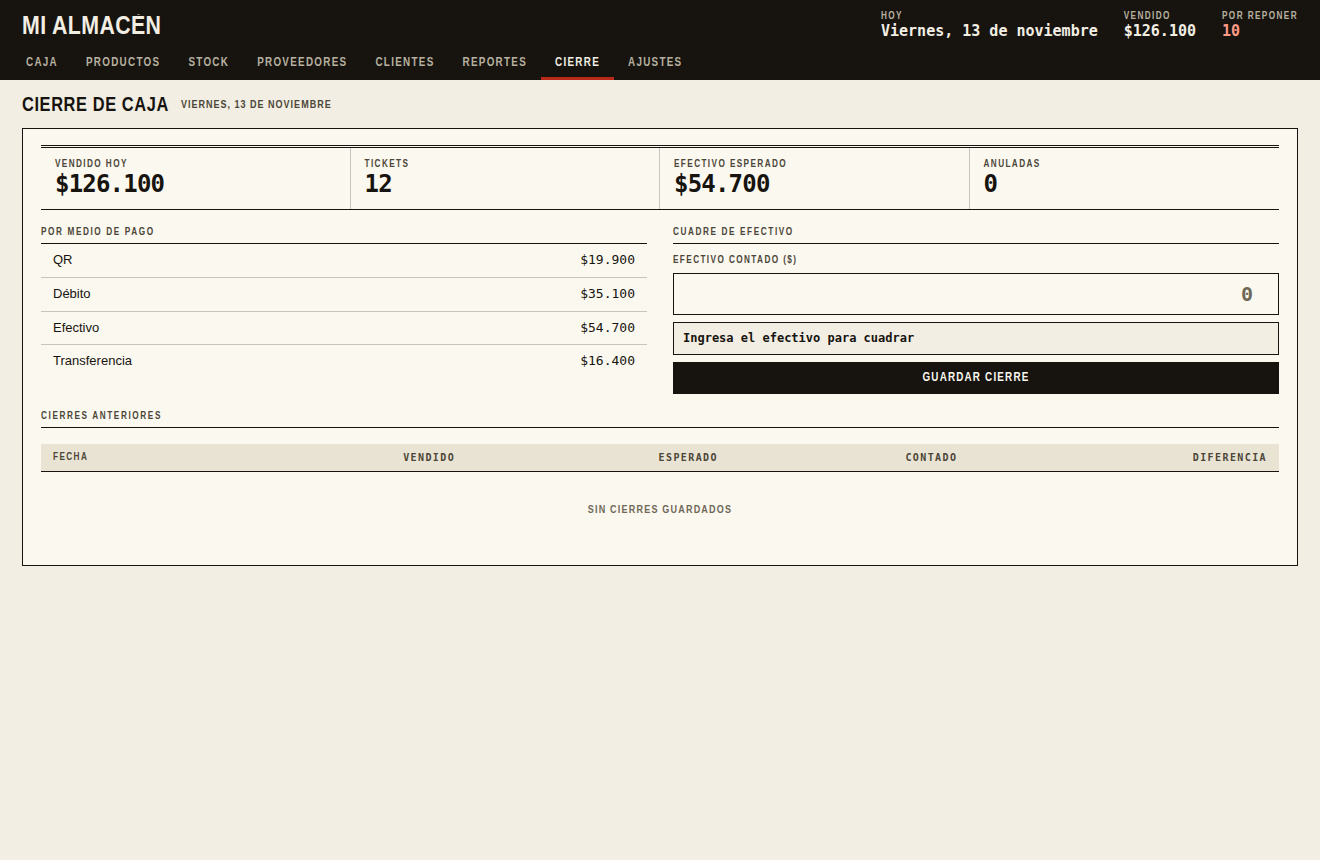
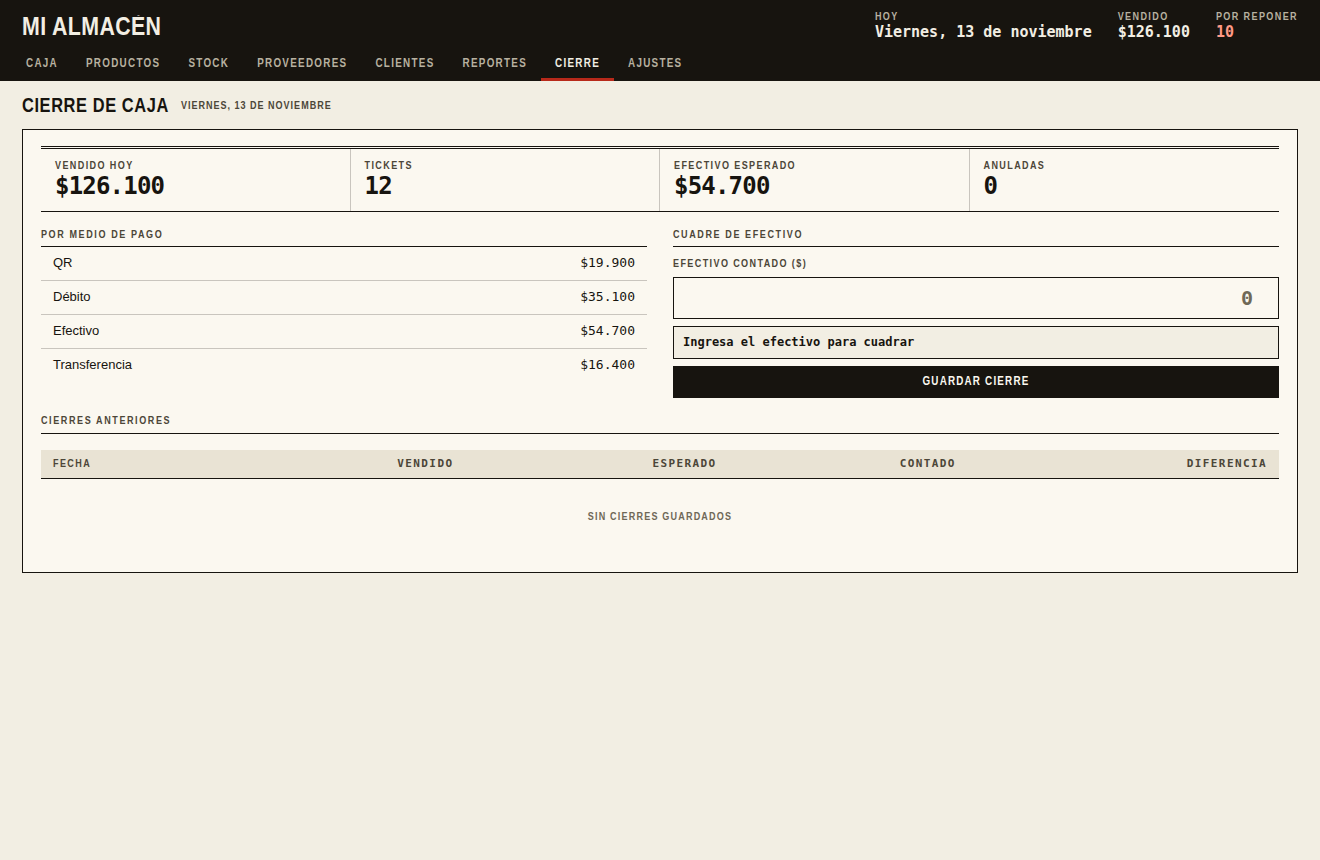
Legibilidad: todo el texto funcional al piso de 11px (14 valores de 9-10px)

Changed region(s): [[0.0311, 0.0, 0.9629, 0.6047], [0.6523, 0.0, 0.9939, 0.0605]]

diff --git a/src/renderer/styles.css b/src/renderer/styles.css
@@ -80,7 +80,7 @@ button, input, select { font: inherit; color: inherit; }
 .cabecera-datos { display: flex; gap: 26px; margin: 0; }
 .cabecera-datos div { display: grid; gap: 1px; }
 .cabecera-datos dt {
-  font: 600 10px/1 var(--condensada);
+  font: 600 11px/1 var(--condensada);
   letter-spacing: 1.4px;
   text-transform: uppercase;
   color: #b8b1a0;
@@ -225,7 +225,7 @@ button.chico { padding: 5px 9px; font-size: 11px; letter-spacing: 1px; }
 .producto.poco .stock { color: var(--rojo); }
 
 .producto .c {
-  font: 600 9px/1.2 var(--condensada);
+  font: 600 11px/1.2 var(--condensada);
   letter-spacing: 1.3px;
   text-transform: uppercase;
   color: var(--tinta-3);
@@ -329,7 +329,7 @@ button.chico { padding: 5px 9px; font-size: 11px; letter-spacing: 1px; }
   border: 0;
   background: none;
   color: var(--rojo);
-  font: 600 10px/1 var(--condensada);
+  font: 600 11px/1 var(--condensada);
   letter-spacing: 1px;
   text-transform: uppercase;
 }
@@ -344,7 +344,7 @@ button.chico { padding: 5px 9px; font-size: 11px; letter-spacing: 1px; }
 
 .desc { display: flex; align-items: center; justify-content: space-between; gap: 10px; }
 .desc label {
-  font: 600 10px/1 var(--condensada);
+  font: 600 11px/1 var(--condensada);
   letter-spacing: 1.4px;
   text-transform: uppercase;
   color: var(--tinta-2);
@@ -409,7 +409,7 @@ button.chico { padding: 5px 9px; font-size: 11px; letter-spacing: 1px; }
   gap: 16px;
   flex-wrap: wrap;
   color: var(--tinta-3);
-  font: 600 10px/1 var(--condensada);
+  font: 600 11px/1 var(--condensada);
   letter-spacing: 1.2px;
   text-transform: uppercase;
 }
@@ -420,7 +420,7 @@ kbd {
   padding: 2px 4px;
   border: var(--linea);
   background: var(--papel-hueso);
-  font: 700 10px/1.3 var(--mono);
+  font: 700 11px/1.3 var(--mono);
   text-align: center;
 }
 
@@ -441,7 +441,7 @@ th {
   position: sticky; top: 0; z-index: 1;
   background: var(--papel-banda);
   border-bottom: var(--linea);
-  font: 700 10px/1.3 var(--condensada);
+  font: 700 11px/1.3 var(--condensada);
   letter-spacing: 1.4px;
   text-transform: uppercase;
   color: var(--tinta-2);
@@ -457,7 +457,7 @@ td.rojo { color: var(--rojo); }
   display: inline-block;
   padding: 1px 6px;
   border: 1px solid currentColor;
-  font: 700 9px/1.6 var(--condensada);
+  font: 700 11px/1.6 var(--condensada);
   letter-spacing: 1.2px;
   text-transform: uppercase;
 }
@@ -481,7 +481,7 @@ td.rojo { color: var(--rojo); }
 .kpi:last-child { border-right: 0; }
 .kpi span {
   display: block;
-  font: 700 10px/1.3 var(--condensada);
+  font: 700 11px/1.3 var(--condensada);
   letter-spacing: 1.4px;
   text-transform: uppercase;
   color: var(--tinta-2);
@@ -528,14 +528,14 @@ td.rojo { color: var(--rojo); }
   background: var(--tinta);
 }
 .barra-dia small {
-  font: 600 10px/1 var(--mono);
+  font: 600 11px/1 var(--mono);
   color: var(--tinta-2);
   padding-bottom: 3px;
 }
 
 .titulo-seccion {
   margin: 0;
-  font: 700 10px/1.3 var(--condensada);
+  font: 700 11px/1.3 var(--condensada);
   letter-spacing: 1.6px;
   text-transform: uppercase;
   color: var(--tinta-2);
@@ -549,7 +549,7 @@ td.rojo { color: var(--rojo); }
   border-radius: 0;
   padding: 5px 12px;
   cursor: pointer;
-  font: 700 10px/1.4 var(--condensada);
+  font: 700 11px/1.4 var(--condensada);
   letter-spacing: 1.2px;
   text-transform: uppercase;
   color: var(--tinta-2);
@@ -559,7 +559,7 @@ td.rojo { color: var(--rojo); }
 
 .cuadre { display: grid; gap: 7px; padding: 12px 0 0; }
 .cuadre label {
-  font: 700 10px/1 var(--condensada);
+  font: 700 11px/1 var(--condensada);
   letter-spacing: 1.4px;
   text-transform: uppercase;
   color: var(--tinta-2);
@@ -604,7 +604,7 @@ dialog::backdrop { background: rgba(23, 20, 15, 0.55); }
 .campos { display: grid; gap: 10px; }
 .campo { display: grid; gap: 4px; }
 .campo label {
-  font: 700 10px/1 var(--condensada);
+  font: 700 11px/1 var(--condensada);
   letter-spacing: 1.4px;
   text-transform: uppercase;
   color: var(--tinta-2);
